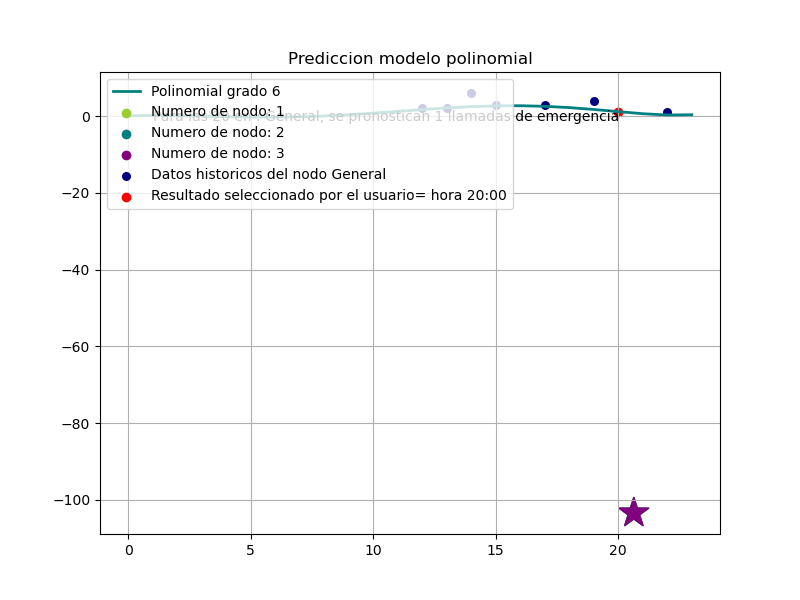
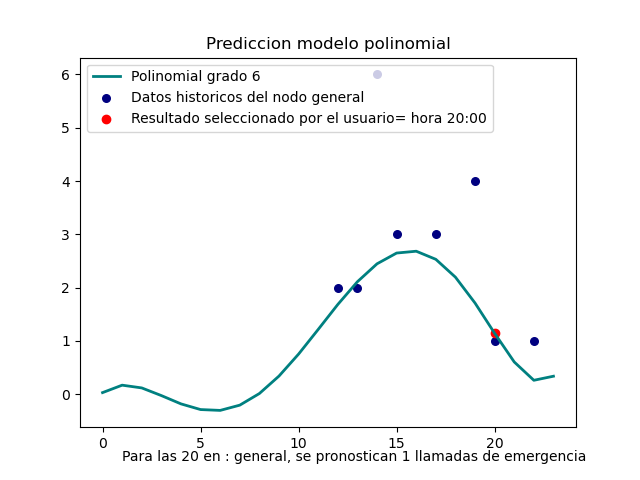
Version final sujeto a ajustes: se reparo un bug que encimaba las graficas con elementos inesperados

diff --git a/templates/centroides.html b/templates/centroides.html
@@ -49,7 +49,7 @@
     </div>
   </body>
   <script>
-    const jsonInput = {"initialViewState": {"bearing": -27.36, "latitude": 20.63494981128319, "longitude": -103.40648023281342, "pitch": 40.5, "zoom": 16}, "layers": [{"@@type": "HexagonLayer", "autoHighlight": true, "coverage": 1, "data": [{"lat": 20.635192685714287, "lon": -103.40659471428572}, {"lat": 20.63309424756154, "lon": -103.40648023281344}, {"lat": 20.634026853285, "lon": -103.407774349725}, {"lat": 20.634037981128216, "lon": -103.40626102328136}], "elevationRange": [0, 10], "elevationScale": 4, "extruded": true, "getPosition": "@@=[lon, lat]", "id": "f0a89077-145c-4993-b31d-a43dddde748f", "pickable": true, "radius": 3}, {"@@type": "ScatterplotLayer", "data": [{"Lat": 20.635, "Lon": -103.4066}, {"Lat": 20.63493, "Lon": -103.4064}, {"Lat": 20.63534, "Lon": -103.4064}, {"Lat": 20.63549, "Lon": -103.406651}, {"Lat": 20.635249, "Lon": -103.40678}, {"Lat": 20.63499, "Lon": -103.40652}, {"Lat": 20.6353498, "Lon": -103.406812}, {"Lat": 20.63404912, "Lon": -103.4079841}, {"Lat": 20.63401912, "Lon": -103.4078941}, {"Lat": 20.63394913, "Lon": -103.40771342}, {"Lat": 20.63384981128, "Lon": -103.40721343}, {"Lat": 20.634049811, "Lon": -103.407723241}, {"Lat": 20.633849811, "Lon": -103.407880238}, {"Lat": 20.634098212, "Lon": -103.4079981344}, {"Lat": 20.634349811, "Lon": -103.4077881344}, {"Lat": 20.633176981128212, "Lon": -103.40648023281342}, {"Lat": 20.63307949811282, "Lon": -103.40648023281344}, {"Lat": 20.6330762821, "Lon": -103.40648023281335}, {"Lat": 20.633078981128214, "Lon": -103.40648023281348}, {"Lat": 20.6330769214, "Lon": -103.40648023281346}, {"Lat": 20.6330768215, "Lon": -103.4064802328135}, {"Lat": 20.634037981128216, "Lon": -103.40626102328136}], "getColor": "@@=[100, 230, 0, 160]", "getPosition": "@@=[Lon, Lat]", "getRadius": 2, "id": "25dfa991-ab45-4a2f-914e-bc0efbdf995f"}], "mapProvider": "carto", "mapStyle": "https://basemaps.cartocdn.com/gl/dark-matter-gl-style/style.json", "views": [{"@@type": "MapView", "controller": true}]};
+    const jsonInput = {"initialViewState": {"bearing": -27.36, "latitude": 20.63494981128319, "longitude": -103.40648023281342, "pitch": 40.5, "zoom": 16}, "layers": [{"@@type": "HexagonLayer", "autoHighlight": true, "coverage": 1, "data": [{"lat": 20.635192685714287, "lon": -103.40659471428572}, {"lat": 20.63309424756154, "lon": -103.40648023281344}, {"lat": 20.634026853285, "lon": -103.407774349725}, {"lat": 20.634037981128216, "lon": -103.40626102328136}], "elevationRange": [0, 10], "elevationScale": 4, "extruded": true, "getPosition": "@@=[lon, lat]", "id": "fc5821d3-044c-4e23-8a0b-caf2a55ac14e", "pickable": true, "radius": 3}, {"@@type": "ScatterplotLayer", "data": [{"Lat": 20.635, "Lon": -103.4066}, {"Lat": 20.63493, "Lon": -103.4064}, {"Lat": 20.63534, "Lon": -103.4064}, {"Lat": 20.63549, "Lon": -103.406651}, {"Lat": 20.635249, "Lon": -103.40678}, {"Lat": 20.63499, "Lon": -103.40652}, {"Lat": 20.6353498, "Lon": -103.406812}, {"Lat": 20.63404912, "Lon": -103.4079841}, {"Lat": 20.63401912, "Lon": -103.4078941}, {"Lat": 20.63394913, "Lon": -103.40771342}, {"Lat": 20.63384981128, "Lon": -103.40721343}, {"Lat": 20.634049811, "Lon": -103.407723241}, {"Lat": 20.633849811, "Lon": -103.407880238}, {"Lat": 20.634098212, "Lon": -103.4079981344}, {"Lat": 20.634349811, "Lon": -103.4077881344}, {"Lat": 20.633176981128212, "Lon": -103.40648023281342}, {"Lat": 20.63307949811282, "Lon": -103.40648023281344}, {"Lat": 20.6330762821, "Lon": -103.40648023281335}, {"Lat": 20.633078981128214, "Lon": -103.40648023281348}, {"Lat": 20.6330769214, "Lon": -103.40648023281346}, {"Lat": 20.6330768215, "Lon": -103.4064802328135}, {"Lat": 20.634037981128216, "Lon": -103.40626102328136}], "getColor": "@@=[100, 230, 0, 160]", "getPosition": "@@=[Lon, Lat]", "getRadius": 2, "id": "d60a20d5-4a17-43a7-99f7-a4eef23cc7de"}], "mapProvider": "carto", "mapStyle": "https://basemaps.cartocdn.com/gl/dark-matter-gl-style/style.json", "views": [{"@@type": "MapView", "controller": true}]};
     const tooltip = true;
     const customLibraries = null;
 

diff --git a/templates/mapa.html b/templates/mapa.html
@@ -49,7 +49,7 @@
     </div>
   </body>
   <script>
-    const jsonInput = {"initialViewState": {"bearing": -27.36, "latitude": 20.63494981128319, "longitude": -103.40648023281342, "pitch": 40.5, "zoom": 16}, "layers": [{"@@type": "ScatterplotLayer", "data": [{"lat": 20.635, "lon": -103.4066}, {"lat": 20.63493, "lon": -103.4064}, {"lat": 20.63534, "lon": -103.4064}, {"lat": 20.63549, "lon": -103.406651}, {"lat": 20.635249, "lon": -103.40678}, {"lat": 20.63499, "lon": -103.40652}, {"lat": 20.6353498, "lon": -103.406812}, {"lat": 20.63404912, "lon": -103.4079841}, {"lat": 20.63401912, "lon": -103.4078941}, {"lat": 20.63394913, "lon": -103.40771342}, {"lat": 20.63384981128, "lon": -103.40721343}, {"lat": 20.634049811, "lon": -103.407723241}, {"lat": 20.633849811, "lon": -103.407880238}, {"lat": 20.634098212, "lon": -103.4079981344}, {"lat": 20.634349811, "lon": -103.4077881344}, {"lat": 20.633176981128212, "lon": -103.40648023281342}, {"lat": 20.63307949811282, "lon": -103.40648023281344}, {"lat": 20.6330762821, "lon": -103.40648023281335}, {"lat": 20.633078981128214, "lon": -103.40648023281348}, {"lat": 20.6330769214, "lon": -103.40648023281346}, {"lat": 20.6330768215, "lon": -103.4064802328135}, {"lat": 20.634037981128216, "lon": -103.40626102328136}], "getColor": "@@=[100, 230, 0, 160]", "getPosition": "@@=[lon, lat]", "getRadius": 2, "id": "322806dc-1a91-4840-818a-d7eee0ee3427"}], "mapProvider": "carto", "mapStyle": "https://basemaps.cartocdn.com/gl/dark-matter-gl-style/style.json", "views": [{"@@type": "MapView", "controller": true}]};
+    const jsonInput = {"initialViewState": {"bearing": -27.36, "latitude": 20.63494981128319, "longitude": -103.40648023281342, "pitch": 40.5, "zoom": 16}, "layers": [{"@@type": "ScatterplotLayer", "data": [{"lat": 20.635, "lon": -103.4066}, {"lat": 20.63493, "lon": -103.4064}, {"lat": 20.63534, "lon": -103.4064}, {"lat": 20.63549, "lon": -103.406651}, {"lat": 20.635249, "lon": -103.40678}, {"lat": 20.63499, "lon": -103.40652}, {"lat": 20.6353498, "lon": -103.406812}, {"lat": 20.63404912, "lon": -103.4079841}, {"lat": 20.63401912, "lon": -103.4078941}, {"lat": 20.63394913, "lon": -103.40771342}, {"lat": 20.63384981128, "lon": -103.40721343}, {"lat": 20.634049811, "lon": -103.407723241}, {"lat": 20.633849811, "lon": -103.407880238}, {"lat": 20.634098212, "lon": -103.4079981344}, {"lat": 20.634349811, "lon": -103.4077881344}, {"lat": 20.633176981128212, "lon": -103.40648023281342}, {"lat": 20.63307949811282, "lon": -103.40648023281344}, {"lat": 20.6330762821, "lon": -103.40648023281335}, {"lat": 20.633078981128214, "lon": -103.40648023281348}, {"lat": 20.6330769214, "lon": -103.40648023281346}, {"lat": 20.6330768215, "lon": -103.4064802328135}, {"lat": 20.634037981128216, "lon": -103.40626102328136}], "getColor": "@@=[100, 230, 0, 160]", "getPosition": "@@=[lon, lat]", "getRadius": 2, "id": "44017d6b-91ec-4c66-8737-615ebd034451"}], "mapProvider": "carto", "mapStyle": "https://basemaps.cartocdn.com/gl/dark-matter-gl-style/style.json", "views": [{"@@type": "MapView", "controller": true}]};
     const tooltip = true;
     const customLibraries = null;
 

diff --git a/appflask.py b/appflask.py
@@ -268,7 +268,10 @@ def obtenerCentroidesgraph():
 @app.route("/map", methods=['GET'])
 def map():
     return routinemap()
+@app.route("/", methods=['GET'])
+def main():
 
+    return send_file('templates/output_file.txt')
 @app.route("/upload_data", methods=['POST'])#este endpoint sobreescribira el archivo ejemplo.json
 #puede sobreescribir el archivo que se esta utilizando y si no maneja el adecuado formato, las demas funciones
 #dejarar de servir
@@ -377,6 +380,8 @@ def clustercentroids():
     #plt.show()
     #plt.imshow(background, alpha = 0.15)
     plt.savefig("centroides.png")
+    plt.clf()
+    plt.close()
     dfi.export(dfc,"coordenadascentroides.png")
 
     return render_template('centroides.html')
@@ -473,6 +478,7 @@ def predictPR():
     else:
          plt.text(1,-1.25,"Para las %s en : %s"%(horauser,nodouser)+", se pronostican %s "%int(np.around(ypred)[0])+"llamadas de emergencia")
     plt.savefig('graficas/PR_result_%s_%s.png'%(nodouser,horauser),metadata={"title":"Prediccion de modelo polinomial"})
+    plt.clf()
     plt.close()
 
     response={
